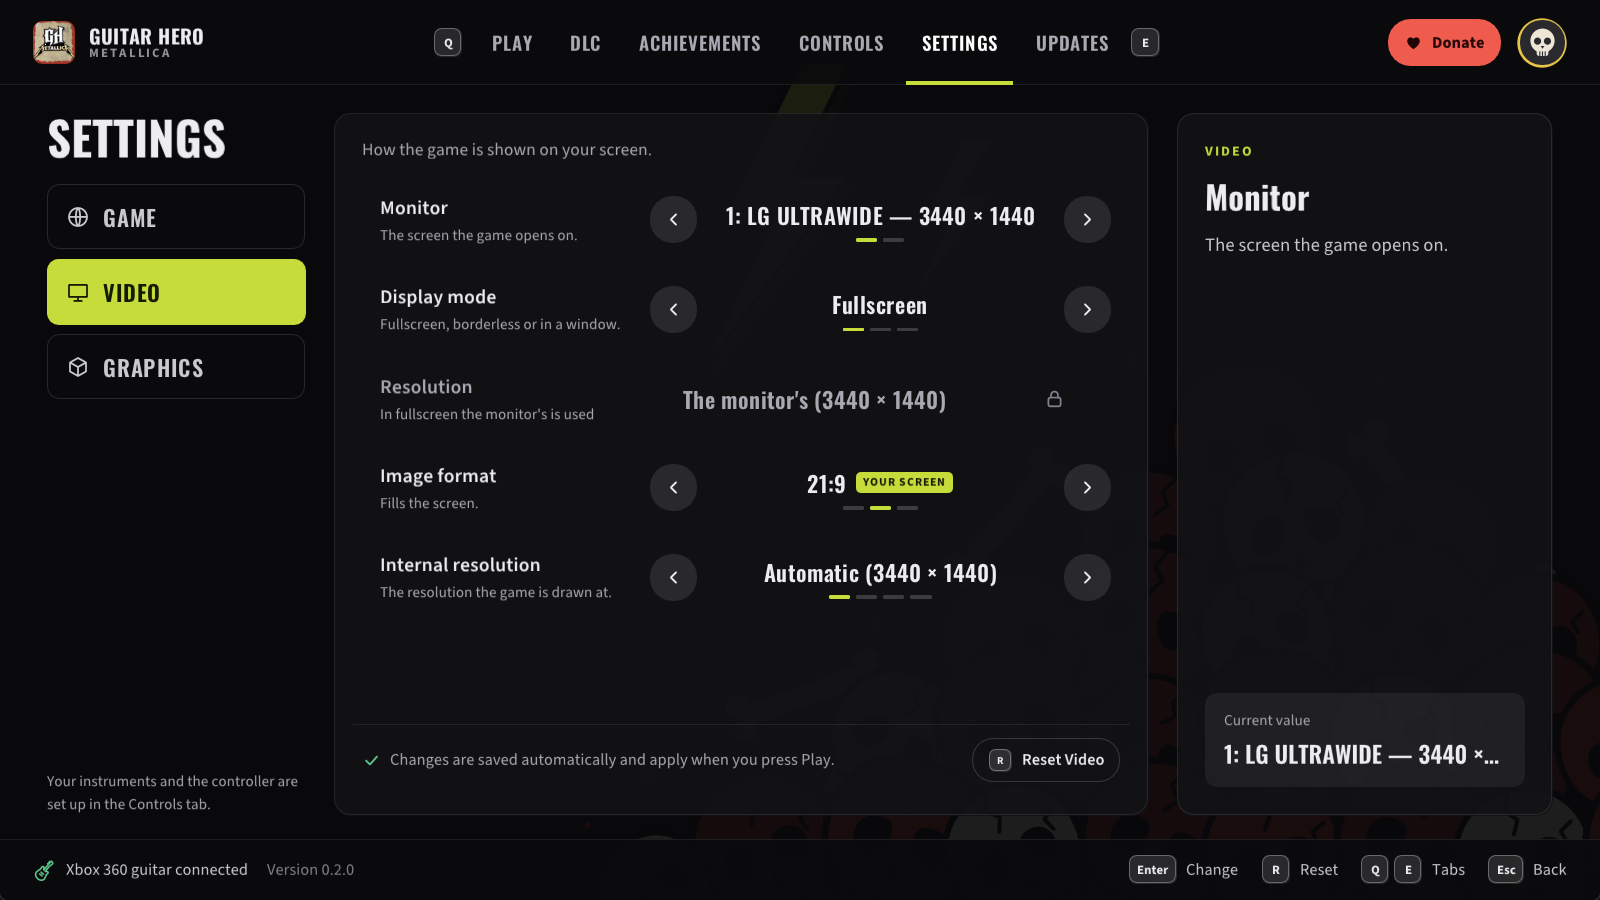
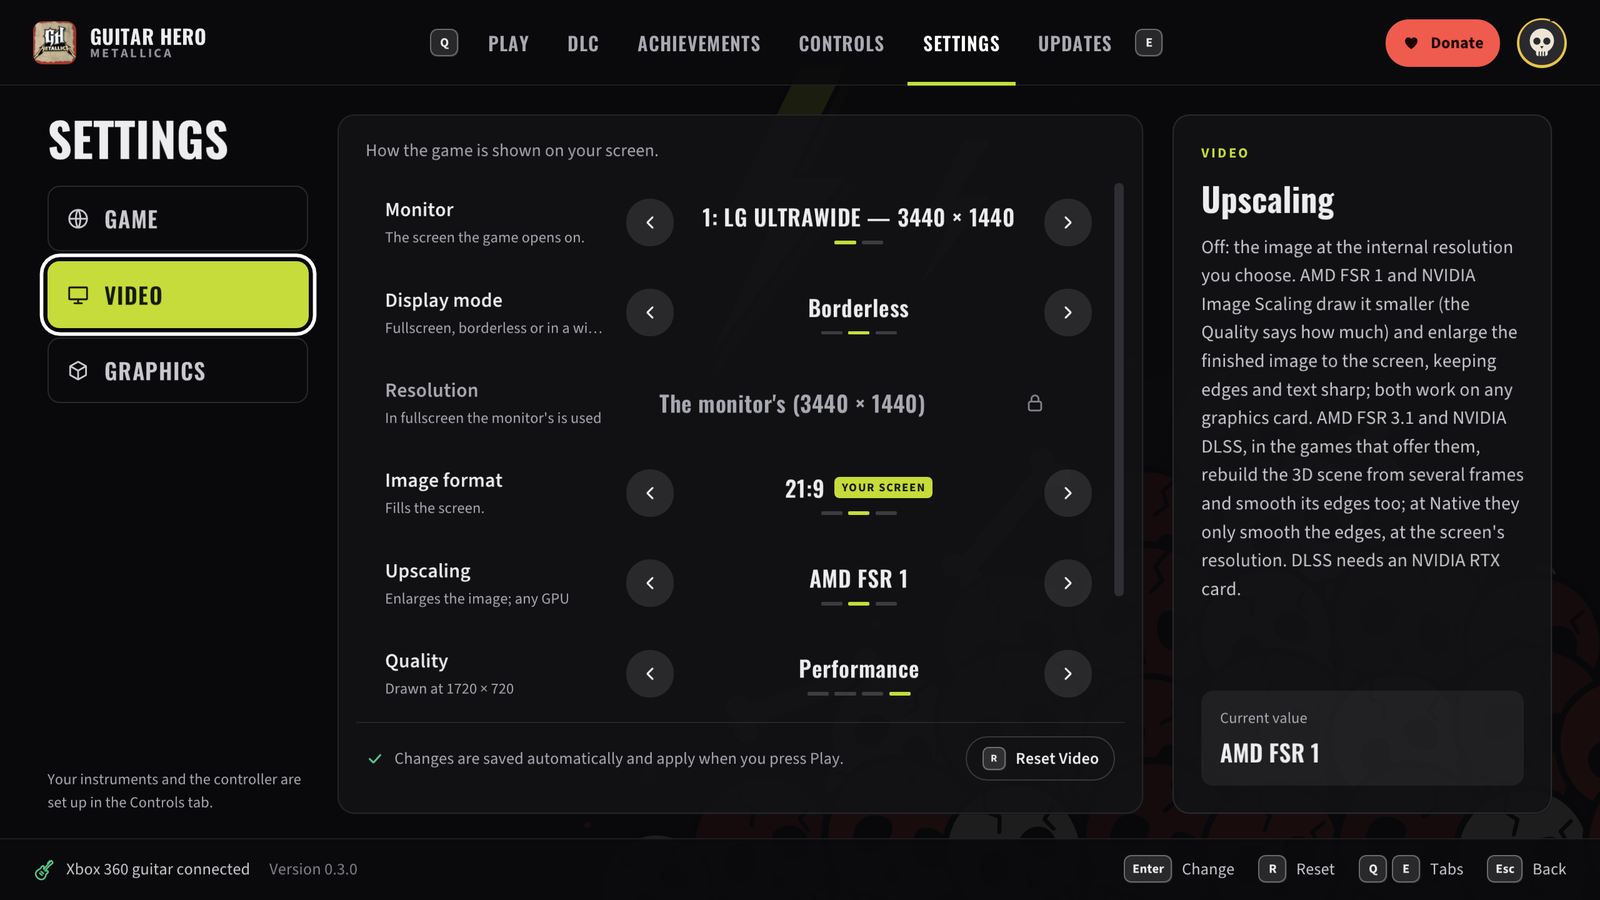
README for 0.3.0: what's new, AMD FSR 1 and NVIDIA NIS, the features to come
- What's new in 0.3.0 at the top: upscaling, G-Sync and FreeSync, the strings
  above 60 FPS, the audio, the keyboard's keys, Alt+Tab, the launcher's
  language and log, the keyboard taken for the singer.
- Upscaling: AMD FSR 1 and NVIDIA NIS, with a comparison of the main menu at
  3440x1440 (native, a plain stretch from 720 lines, FSR 1, NIS; taken in
  English with NativeXRenderer and SMAA) and the launcher's Settings > Video
  with its Upscaling and Quality rows (docs/images/launcher-video.png, new).
- In the works: online multiplayer, MIDI drum kits, Guitar Hero: World Tour
  DLC, custom songs, Linux and Steam Deck, and more.

diff --git a/README.md b/README.md
@@ -35,6 +35,22 @@ guitar.
 > of them and something goes wrong, please report it in [issues](https://github.com/ElGuslml/GHMetalRecomp/issues) or
 > on [Discord](https://discord.gg/XQtM5TmNs8).
 
+## 🆕 What's new in 0.3.0
+
+- 🔍 **Upscaling with AMD FSR 1 and NVIDIA NIS:** sharp text and edges from fewer lines, for 4K screens and slower
+  graphics cards ([see below](#-upscaling-amd-fsr-1-and-nvidia-nis)).
+- 🖥 **Smooth with G-Sync and FreeSync:** frames come evenly, just under your monitor's maximum, with V-Sync on or
+  off: no more saw tooth in the frame time graph, no tearing.
+- 🎸 **The guitars' strings above 60 FPS:** they used to shake around the guitar; they follow it now, every frame.
+- 🔊 **No more crackling audio** on slower PCs, and no more muting with Low latency audio on.
+- ⌨ **More keys for the keyboard:** Shift, Ctrl and Alt as keys of their own (Left Alt as Star Power!), and F1 to F12.
+- 🪟 **Alt+Tab** in fullscreen no longer closes the game.
+- 🌍 **The launcher in your language** (English, French, German, Italian or Spanish), and a log of its own to help
+  with problems.
+- 🎤 The keyboard is no longer taken for the singer when a controller is set to sing.
+
+The full list is in the [release notes](https://github.com/ElGuslml/GHMetalRecomp/releases/tag/v0.3.0).
+
 ## 🎮 How to play
 
 1. **Download** the latest version from [Releases](https://github.com/ElGuslml/GHMetalRecomp/releases/latest):
@@ -77,6 +93,8 @@ From then on, the launcher keeps itself up to date: when a new version comes out
   choose which controller sings.
 - 🖥 **Sharp, native graphics:** the game is drawn by your graphics card at your screen's resolution, with smooth
   edges (antialiasing) and sharper textures.
+- 🔍 **Upscaling:** AMD FSR 1 or NVIDIA NIS, on any graphics card, with their quality and sharpness
+  ([see below](#-upscaling-amd-fsr-1-and-nvidia-nis)).
 - ⚡ **High frame rates:** 60 FPS as on the console, or 120, 144, 160, 165 or 240 FPS if your monitor supports it
   (experimental). The songs keep their speed and stay in sync. V-Sync is on by default (no tearing, the game in step
   with your monitor, without V-Sync's usual delay); leave it on with a G-Sync or FreeSync monitor too.
@@ -91,6 +109,33 @@ From then on, the launcher keeps itself up to date: when a new version comes out
 - 🏆 **Achievements:** a notification when you unlock one, and all 50 in the launcher or with F7 in the game.
 - 🌍 **Languages:** English, French, German, Italian and Spanish.
 - 🔄 **Automatic updates** from this page.
+
+## 🔍 Upscaling: AMD FSR 1 and NVIDIA NIS
+
+For a 4K screen or a slower graphics card, the game can be drawn with fewer lines than your screen has and enlarged
+to fill it. A plain stretch makes the menus' text, the HUD and every edge soft; **AMD FSR 1** and **NVIDIA Image
+Scaling (NIS)** enlarge the image keeping them sharp. Both work on any graphics card (AMD, NVIDIA or Intel).
+
+<p align="center">
+  <img src="docs/images/upscaling-comparison.png" width="100%" alt="The main menu at 3440x1440: native, a plain stretch from 720 lines, AMD FSR 1 and NVIDIA NIS">
+</p>
+<p align="center"><sub>The main menu on a 3440x1440 screen, at its own pixels: drawn at the screen's 1440 lines, then
+from the console's 720 lines with a plain stretch, with AMD FSR 1 and with NVIDIA NIS.</sub></p>
+
+In the launcher's **Settings → Video**:
+- **Upscaling:** Off, AMD FSR 1 or NVIDIA NIS.
+- **Quality:** how many fewer lines the game is drawn with: Ultra Quality (77 % of your screen's), Quality (67 %),
+  Balanced (59 %), Performance (50 %) or Ultra Performance (33 %), never fewer than the console's 720.
+- **Sharpness:** Off, Low, Medium (AMD's and NVIDIA's recommendation) or High. It works without upscaling too (AMD
+  CAS).
+
+<p align="center">
+  <img src="docs/images/launcher-video.png" width="70%" alt="Settings, Video: Upscaling, Quality and Sharpness">
+</p>
+
+They are light: measured on an RTX 4070 Ti at 3440x1440 from 720 lines, the text came out about twice as sharp as
+with the plain stretch, for 0.14 ms (FSR 1) or 0.20 ms (NIS) of the graphics card's time per frame
+([details](docs/scaling.md)). Upscaling is for the NativeXRenderer renderer (the default).
 
 ## 🔧 Better than the original
 
@@ -138,7 +183,7 @@ Everything is set up from **GH Metallica Launcher**, with the mouse, the keyboar
   <img src="docs/images/launcher-video.png" width="49%" alt="Settings: Video">
   <img src="docs/images/launcher-achievements.png" width="49%" alt="Achievements">
 </p>
-<p align="center"><sub>Settings (Video: your screen, window or fullscreen, the image format) and the achievements.</sub></p>
+<p align="center"><sub>Settings (Video: your screen, window or fullscreen, the image format, upscaling) and the achievements.</sub></p>
 
 Your choices are saved as soon as you make them. When you quit the game, the launcher comes back.
 
@@ -196,8 +241,12 @@ natively on Vulkan.
 ## 🚧 In the works
 
 New features on the way:
+- 🌐 **Online multiplayer:** play with your friends over the internet.
+- 🥁 **MIDI drum kits:** play the drums on an electronic drum kit connected to your PC.
+- 💿 **Guitar Hero: World Tour DLC:** import your World Tour songs and play them here.
 - 🎵 **Custom songs:** play songs made by the community.
 - 🐧 **Linux and Steam Deck:** a port to play there too.
+- ✨ **And more...**
 
 Follow along on [Discord](https://discord.gg/XQtM5TmNs8) and on [X](https://x.com/ElGuslml).
 
